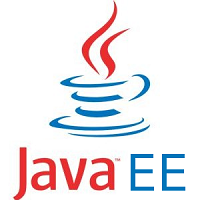
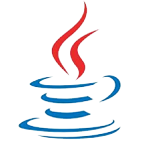
crop images, add title transition

Changed region(s): [[0.1867, 0.0, 0.8267, 0.6933], [0.0533, 0.72, 0.9333, 1.0]]

diff --git a/src/templates/index.html b/src/templates/index.html
@@ -108,7 +108,7 @@
             </div>
             
             <div class="item">
-                <img class="skill-icon" src="{% static 'images/htmlcss.jpg' %}" width="70" height="70" ></img>
+                <img class="skill-icon" src="{% static 'images/htmlcss.png' %}" width="70" height="70" ></img>
                 <p>HTML</p>
             </div>
 
@@ -190,4 +190,12 @@
 <footer class="positioner">
     <p>&copy; Ruiwei Liang, Melbourne VIC, Australia</p>
 </footer>
+
+<script>
+document.addEventListener('DOMContentLoaded', ()=>{
+    document.querySelector(".my-jumbotron .heading").classList.add("show")
+}, false);
+
+    
+</script>
 {% endblock content %}

diff --git a/src/static/css/index.css b/src/static/css/index.css
@@ -68,10 +68,18 @@
 .my-jumbotron .heading{
 	font-size: 1.8em;
 	font-family: Exo;
-	letter-spacing: 2px;
+	
 	
 	margin: 20px 0 30px;
+	transition: opacity 1s, letter-spacing 2s;
+	letter-spacing: 0px;
+	opacity: 0;
 
+}
+
+.my-jumbotron .heading.show{
+	letter-spacing: 2px;
+	opacity: 1;
 }
 
 .my-jumbotron .side-heading{
